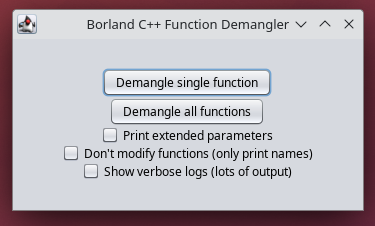
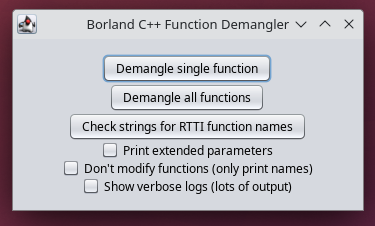
Update screenshots and README

Changed region(s): [[0.1467, 0.2168, 0.8507, 0.8673]]

diff --git a/README.md b/README.md
@@ -8,4 +8,6 @@
 
 ![Borland C++ Demangler Script Console Output](borland_demangler_console.png "Borland C++ Demangler Script Console Output")
 
+![Borland C++ Demangler Script Console Output 2](borland_demangler_console_2.png "Borland C++ Demangler Script Console Output 2")
+
 To use, open `Script Manager` and add this directory to `Script Directories` list. Then choose `BorlandCPPDemangler.java` and run it.
